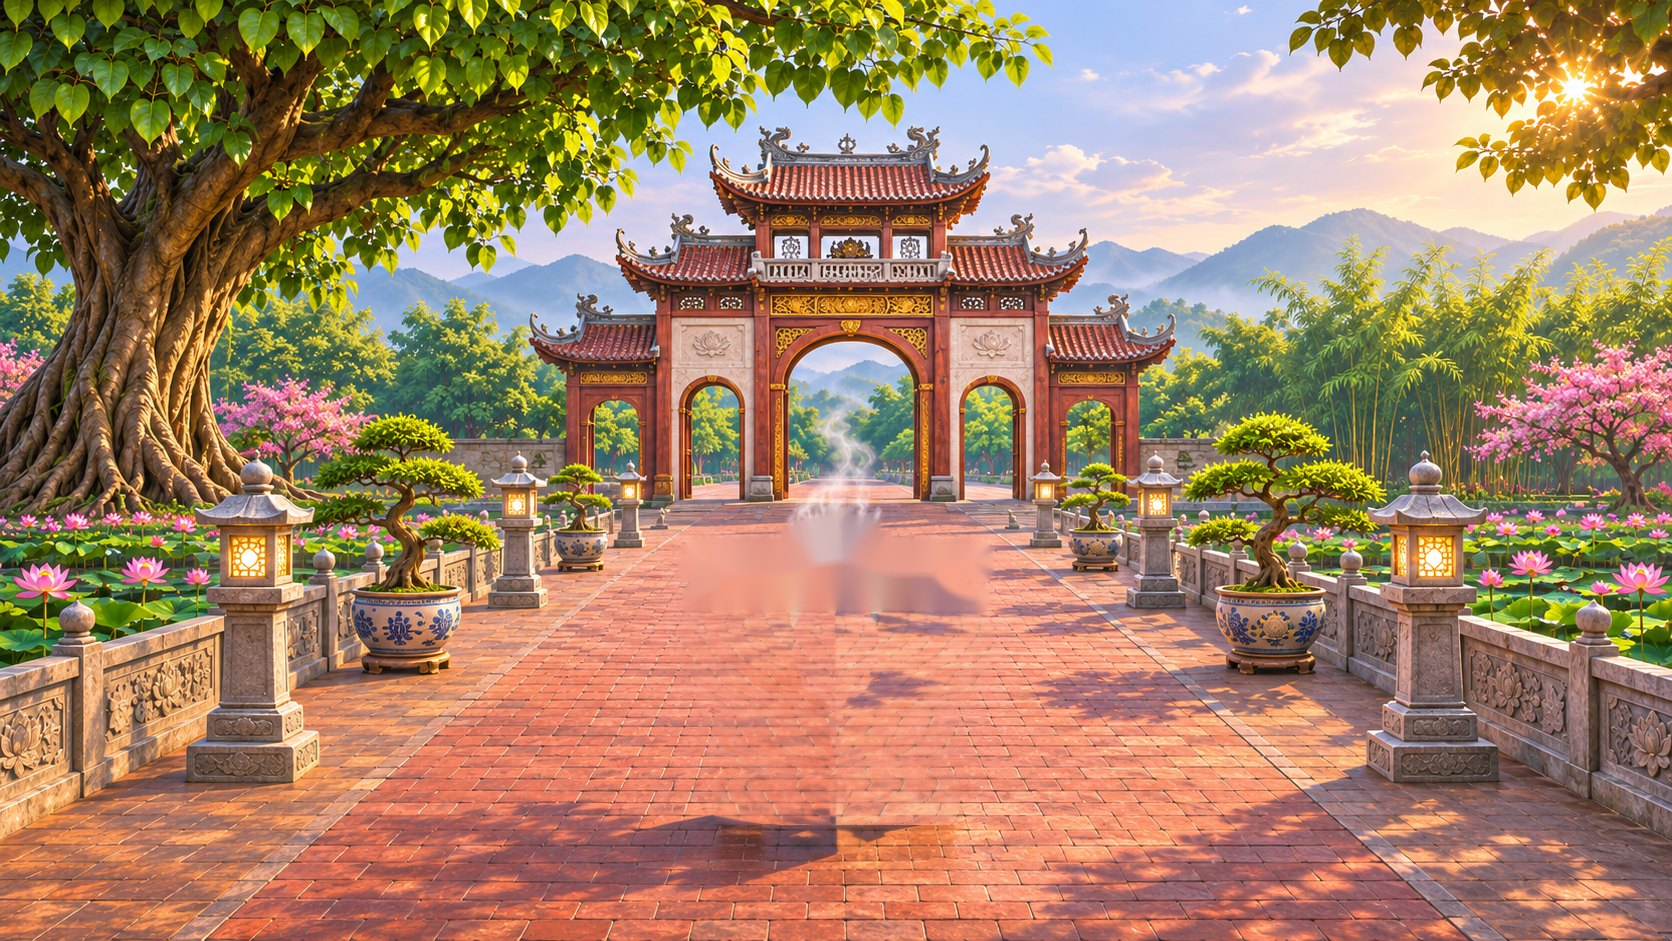
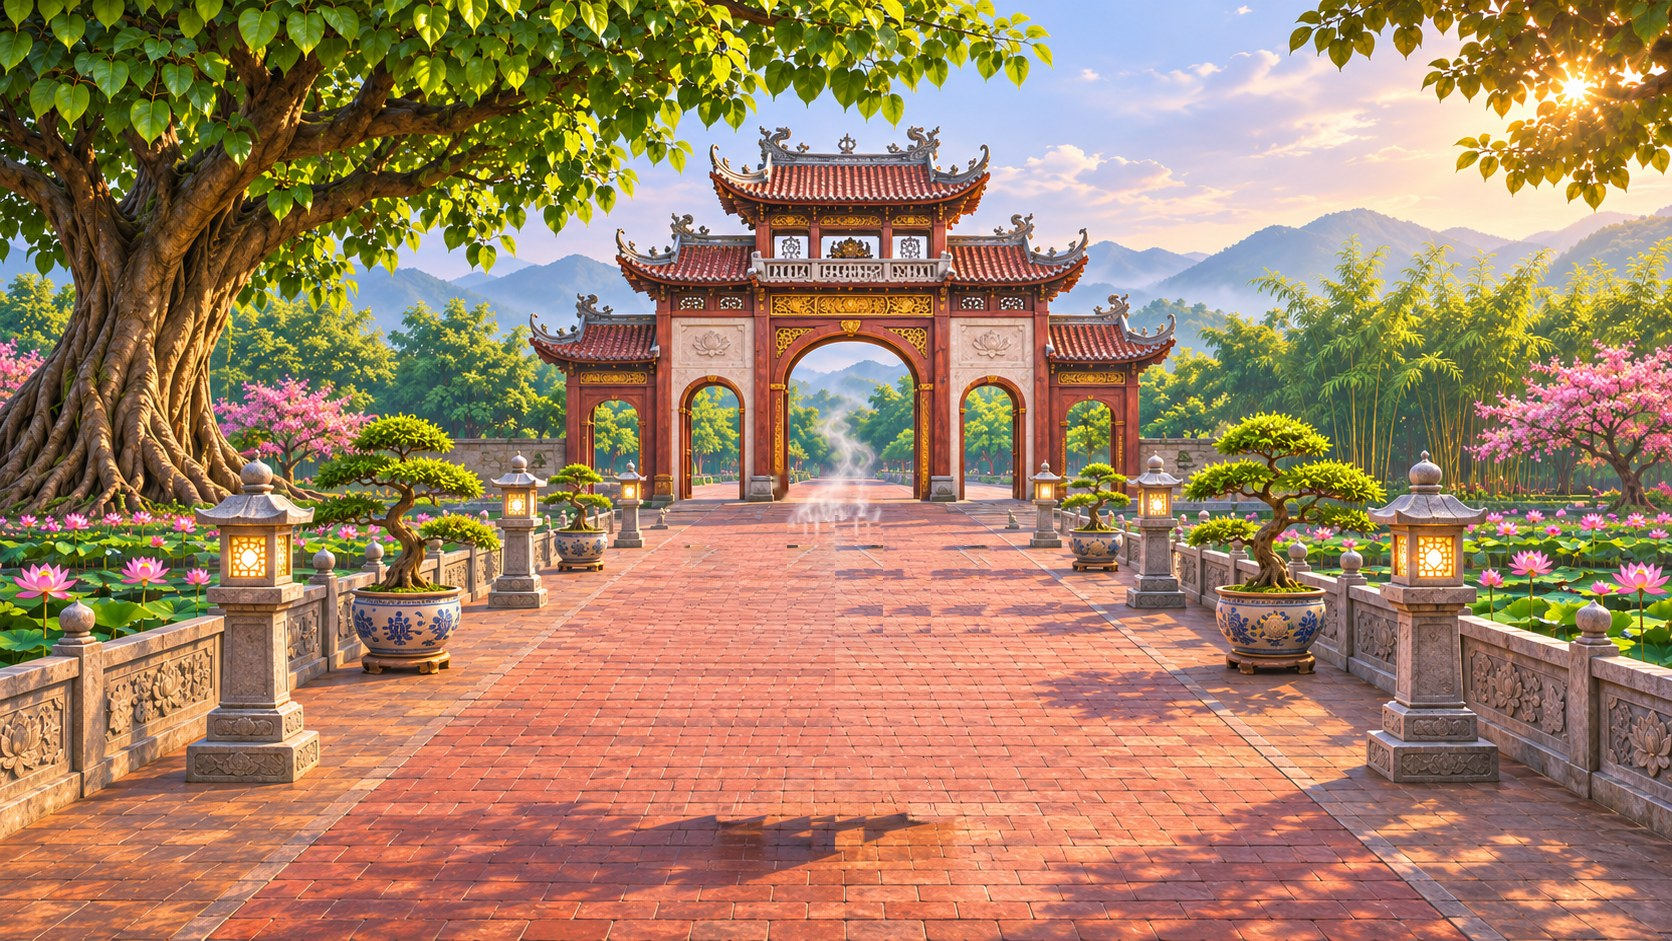
Vẽ lại nền gạch sắc nét quanh lư hương, cho nhân vật đi vòng ra sau lư hương
- Thay vùng tô mờ bằng cách chép gạch cùng hàng từ nền sạch bên cạnh, rồi khớp ánh sáng
- Thu vùng chặn lư hương về chân lư, đi ra sau thì lư che người

Claude-Session: https://claude.ai/code/session_0165dYwuGLCeQUJKj4YibH94

Changed region(s): [[0.4043, 0.5239, 0.5909, 0.9245], [0.4354, 0.4931, 0.4976, 0.5239]]

diff --git a/chua.js b/chua.js
@@ -37,23 +37,23 @@
       urn: { stand: [845, 806], face: 'down', plant: [843, 800], len: 58 } },
     'cua': { urn3d: { bb: [755, 423, 917, 606], elev: 12 }, name: 'Cửa Chánh điện', img: 'assets/ngoai/cua.jpg', hz: 470, k: .6,
       floor: [[222, 941], [1450, 941], [1450, 742], [1085, 522], [600, 522], [222, 742]],
-      block: [[238, 560, 425, 835], [1245, 560, 1440, 835], [735, 534, 935, 620]],
+      block: [[238, 560, 425, 835], [1245, 560, 1440, 835], [762, 566, 910, 616]],
       exits: [[[560, 500, 1110, 532], 'san', [836, 905], 'up'], [[222, 932, 1450, 941], 'hall', [845, 575], 'down']],
       urn: { stand: [836, 640], face: 'up', plant: [836, 462], len: 26 } },
     'cua-hong': { urn3d: { bb: [754, 422, 918, 606], elev: 12 }, name: 'Thềm Chánh điện', img: 'assets/ngoai/cua-hong.jpg', hz: 470, k: .6,
       floor: [[222, 941], [1450, 941], [1450, 742], [1085, 522], [600, 522], [222, 742]],
-      block: [[238, 560, 425, 835], [1245, 560, 1440, 835], [735, 534, 935, 620]],
+      block: [[238, 560, 425, 835], [1245, 560, 1440, 835], [762, 566, 910, 616]],
       exits: [[[560, 500, 1110, 532], 'san', [836, 905], 'up'], [[222, 932, 1450, 941], 'hall', [60, 790], 'right']],
       urn: { stand: [836, 640], face: 'up', plant: [836, 462], len: 26 } },
     'san': { urn3d: { bb: [682, 511, 988, 847], elev: 8 }, name: 'Sân chùa', img: 'assets/ngoai/san.jpg', hz: 470, k: .6,
       floor: [[0, 941], [1672, 941], [1672, 822], [1112, 560], [1042, 500], [628, 500], [558, 560], [0, 822]],
-      block: [[690, 545, 985, 850]],
+      block: [[702, 782, 968, 852]],
       exits: [[[600, 490, 1070, 510], 'san-gan', [560, 905], 'up'], [[0, 924, 1672, 941], 'mat-tien', [836, 905], 'up'],
               [[0, 800, 12, 941], 'bo-de', [1590, 880], 'left'], [[1660, 800, 1672, 941], 'quan-am', [90, 880], 'right']],
       urn: { stand: [836, 905], face: 'up', plant: [836, 588], len: 50 } },
     'san-gan': { urn3d: { bb: [677, 584, 1071, 940], elev: 6 }, name: 'Sân trước Tam Quan', img: 'assets/ngoai/san-gan.jpg', hz: 470, k: .6,
       floor: [[0, 941], [1672, 941], [1672, 782], [1122, 560], [1000, 528], [700, 528], [560, 560], [0, 782]],
-      block: [[660, 560, 1080, 941]],
+      block: [[692, 862, 1058, 941]],
       exits: [[[680, 515, 1020, 538], 'tam-quan', [836, 905], 'up'], [[0, 930, 650, 941], 'mat-tien', [836, 905], 'up'], [[1090, 930, 1672, 941], 'mat-tien', [836, 905], 'up'],
               [[0, 760, 12, 941], 'bo-de', [1590, 880], 'left'], [[1660, 760, 1672, 941], 'quan-am', [90, 880], 'right']] },
     'tam-quan': { name: 'Cổng Tam Quan', img: 'assets/ngoai/tam-quan.jpg', hz: 520, k: .62,
@@ -61,7 +61,7 @@
       exits: [[[300, 930, 1380, 941], 'mat-tien', [836, 905], 'up'], [[720, 660, 960, 680], 'soon:Đường làng', null]] },
     'mat-tien': { urn3d: { bb: [699, 518, 970, 829], elev: 8 }, name: 'Mặt tiền Chánh điện', img: 'assets/ngoai/mat-tien.jpg', hz: 480, k: .6,
       floor: [[332, 941], [1338, 941], [1338, 642], [1098, 626], [1090, 522], [580, 522], [572, 626], [332, 642]],
-      block: [[690, 600, 985, 838]],
+      block: [[716, 766, 954, 836]],
       exits: [[[640, 505, 1030, 530], 'hall', [845, 575], 'down'], [[332, 930, 1338, 941], 'san', [836, 905], 'up'],
               [[332, 640, 345, 941], 'lau-chuong', [1590, 880], 'left'], [[1325, 640, 1338, 941], 'lau-trong', [836, 905], 'up']],
       urn: { stand: [836, 905], face: 'up', plant: [836, 600], len: 46 } },
